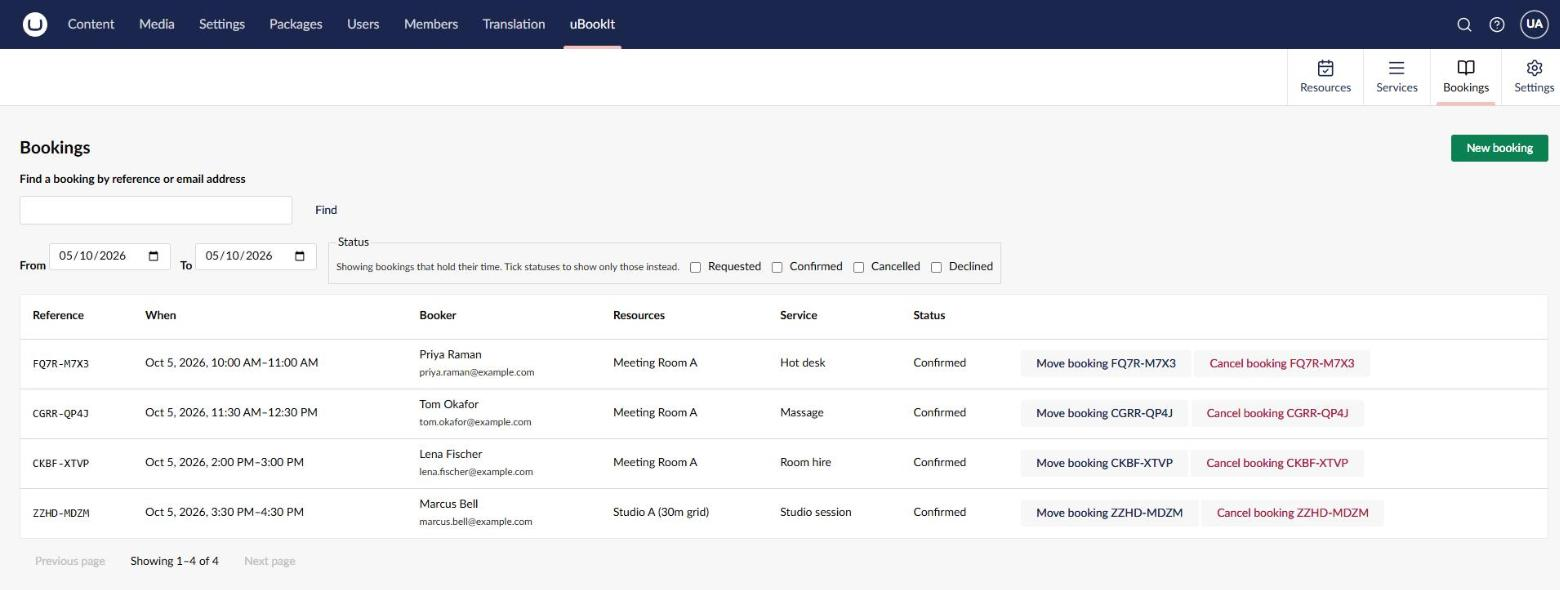
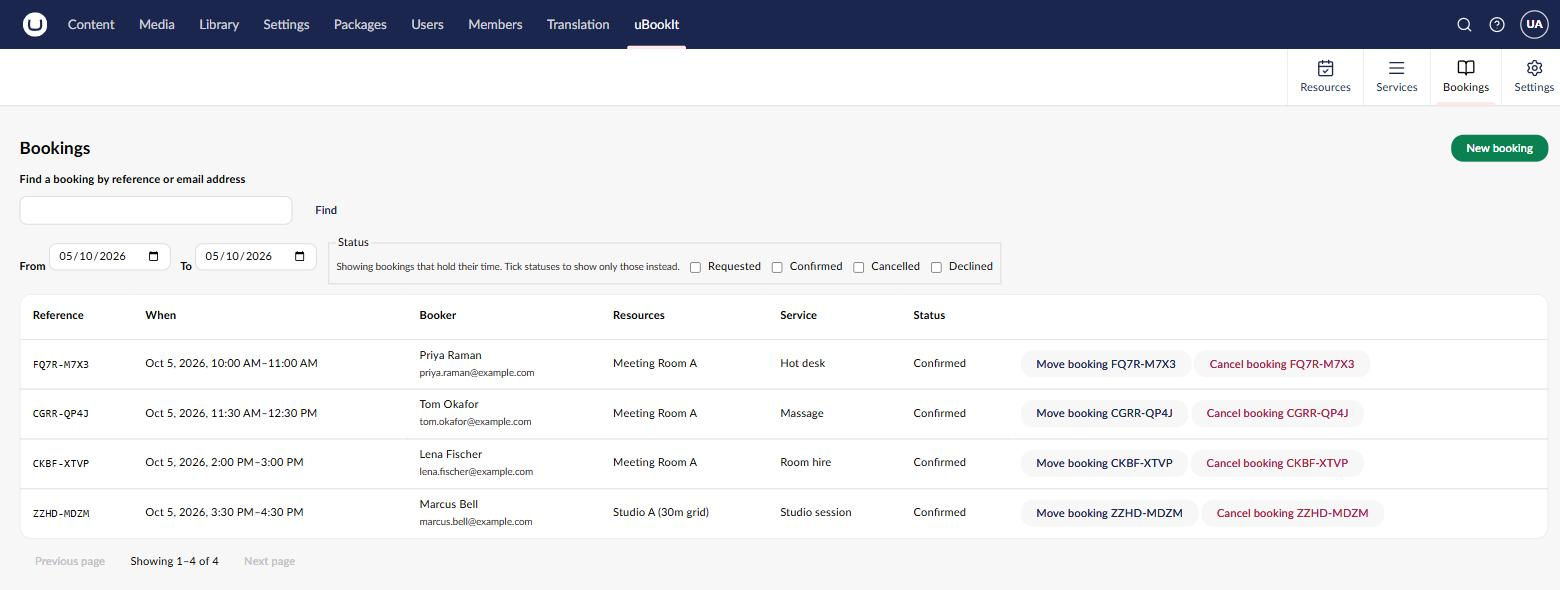
feat(release-18-0-0): retake the Bookings screenshot on Umbraco 18
A true like-for-like rather than a refresh, and the curation task dissolved on
contact. Chris restored the v18 database as a bacpac copy of the v17 one, so the four
bookings the shipped image shows were already there unchanged — FQ7R-M7X3 Priya
Raman, CGRR-QP4J Tom Okafor, CKBF-XTVP Lena Fischer, ZZHD-MDZM Marcus Bell, same
times, resources and services.

The live-check residue needed no removing either: the shipped framing sets From and To
to 5 October 2026 and K3RT-FR4D and 8WZR-Q9P8 sit on 28 September, so the date filter
that makes the screenshot readable is the same thing that keeps the test data out of
it.

Identical data, identical window, identical framing, one difference — which is what
makes the image evidence for design D3 rather than a blanket retake. Umbraco 18
renders uui-buttons fully pill-shaped where 17 rendered them square.

The alt text needed no edit, checked rather than assumed: it names the From/To window,
the four status checkboxes, the New booking button, the table's columns and the
per-row Move and Cancel actions, and every one still holds because the data did not
change. A retake that altered the dataset would have falsified a description nothing
else guards.

Two notes for the next retake, recorded because the packed image is frozen per
version. Match the viewport before capturing: the first attempt came out at roughly
double scale with the action buttons cut off, because the window had been resized
[…]

diff --git a/openspec/changes/release-18-0-0/tasks.md b/openspec/changes/release-18-0-0/tasks.md
@@ -82,16 +82,16 @@ a release is the one moment their absence cannot be corrected afterwards.
 
 ## 4. The screenshot (design D3)
 
-- [ ] 4.1 Curate a plausible, non-personal booking set on the v18 dev site. The live-check
+- [x] 4.1 Curate a plausible, non-personal booking set on the v18 dev site. The live-check
       residue (`K3RT-FR4D`, and `8WZR-Q9P8` cancelled) is not a shipping dataset.
-- [ ] 4.2 Retake `bookings-screen.png` on Umbraco 18, matching the existing image's framing so
+- [x] 4.2 Retake `bookings-screen.png` on Umbraco 18, matching the existing image's framing so
       the four read as one set.
-- [ ] 4.3 Update its alt text if the data changed — the alt text describes the *contents*, and
+- [x] 4.3 Update its alt text if the data changed — the alt text describes the *contents*, and
       `docs-truth-and-screenshots` established that a description which stops matching its image
       is a defect of the same family as a false sentence.
-- [ ] 4.4 Confirm the other three are unchanged and that this is still a deliberate decision
+- [x] 4.4 Confirm the other three are unchanged and that this is still a deliberate decision
       rather than an omission (D3).
-- [ ] 4.5 **Before the tag**, because the pinned URLs resolve through it.
+- [x] 4.5 **Before the tag**, because the pinned URLs resolve through it.
 
 ## 5. Verification
 
@@ -145,3 +145,38 @@ that actually came out — which is also why §3.2's "all five, not one" needs n
 nuspec**, because only the TestSite references it. Bounding it changes nothing a consumer sees
 and keeps the file internally consistent; the guard correctly says nothing about it, because it
 asserts over what shipped.
+
+**§4 result — the curation task dissolved, and the alt text needed nothing.**
+
+**4.1 required no curation at all.** Chris restored the v18 database as a bacpac copy of the v17
+one, so the four bookings the shipped image shows were already present, unchanged:
+`FQ7R-M7X3` Priya Raman, `CGRR-QP4J` Tom Okafor, `CKBF-XTVP` Lena Fischer and `ZZHD-MDZM`
+Marcus Bell, same times, same resources, same services. **And the live-check residue is invisible
+rather than excluded**: the shipped framing sets From and To to 5 October 2026, while
+`K3RT-FR4D` and `8WZR-Q9P8` sit on 28 September. The date filter that makes the screenshot
+readable is the same thing that keeps the test data out of it.
+
+So the retake is a **true like-for-like**: identical data, identical window, identical framing,
+one difference — which is exactly what makes it evidence for D3 rather than a refresh.
+
+**4.3 needed no edit, and that was checked rather than assumed.** The alt text names the From/To
+window, the four status checkboxes, the New booking button, the table's columns and the per-row
+Move and Cancel actions. Every one still holds, because the data did not change. A retake that
+had altered the dataset would have falsified a description nothing else guards — the trap
+`docs-truth-and-screenshots` established.
+
+**Two mechanical notes worth keeping for the next retake:**
+
+- **Match the viewport before capturing, not after.** The first capture came out at roughly
+  double scale with the action buttons cut off the right edge, because the browser window had
+  been resized since the earlier session. `resize_window` to 1600×900 restored a viewport that
+  frames the table the way the shipped image does.
+- **The capture arrives as JPEG and is converted to PNG**, so it carries one lossy generation.
+  Compared against the shipped image at 3× magnification on the same text, the two are
+  equivalent — the existing image came through a comparable pipeline. Recorded because the
+  packed image is frozen per version, so "good enough" is a decision rather than an accident;
+  a native PNG capture is the alternative if a future retake needs it.
+
+**The other three images are untouched**, which is D3's decision holding rather than an omission:
+`availability.png` contains no `uui-button` and the two front-end images are our own markup on
+the site's styling.
